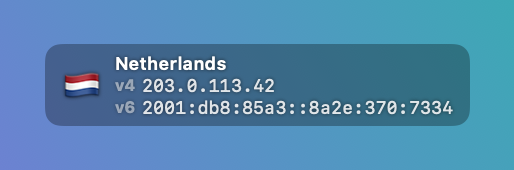
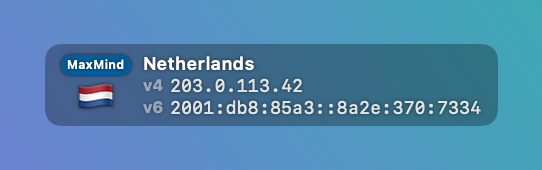
Show geo-source badge (MaxMind / CF) above the flag in the window
Hand-drawn capsule badge in SwiftUI (no third-party logos): blue
"MaxMind" in virtual mode, orange "CF" in physical mode. Screenshots
regenerated; both READMEs mention the badge.

Changed region(s): [[0.0623, 0.2647, 0.9339, 0.7353], [0.0934, 0.7059, 0.1245, 0.7353], [0.0934, 0.2647, 0.1245, 0.2941]]

diff --git a/Sources/IPMonit/ContentView.swift b/Sources/IPMonit/ContentView.swift
@@ -73,10 +73,29 @@ struct ContentView: View {
         }
     }
 
+    // Бейдж источника геоданных: рисуем сами, без сторонних логотипов.
+    private var sourceBadge: some View {
+        let physical = monitor.geoMode == .physicalLocation
+        return Text(physical ? "CF" : "MaxMind")
+            .font(.system(size: 6, weight: .bold))
+            .foregroundStyle(.white)
+            .padding(.horizontal, 3)
+            .padding(.vertical, 1)
+            .background(
+                physical
+                    ? Color(red: 0.96, green: 0.51, blue: 0.12)   // оранжевый Cloudflare
+                    : Color(red: 0.00, green: 0.37, blue: 0.64),  // синий MaxMind
+                in: Capsule()
+            )
+    }
+
     private func block(flag: String, country: String, lines: [(String, String)], tint: Color = .white) -> some View {
         HStack(spacing: 6) {
-            Text(flag)
-                .font(.system(size: 15))
+            VStack(spacing: 1) {
+                sourceBadge
+                Text(flag)
+                    .font(.system(size: 15))
+            }
             VStack(alignment: .leading, spacing: 0) {
                 Text(country)
                     .font(.system(size: 9, weight: .semibold))

diff --git a/README.md b/README.md
@@ -22,7 +22,7 @@ The semi-transparent floating window over a desktop; the same info lives in the 
 - **Optional floating window** — a small semi-transparent pill that stays on top of all windows, on every desktop, even over fullscreen apps. Drag it anywhere; the position is remembered.
 - **Near-realtime** — endpoints are polled every 3 seconds, and network changes (VPN on/off, Wi-Fi switch) trigger an immediate refresh via `NWPathMonitor`.
 - **IPv4 and IPv6 checked independently** — via Cloudflare (`1.1.1.1` and `2606:4700:4700::1111`), so you see exactly what dual-stack services see. A protocol that isn't available is simply hidden.
-- **Virtual vs physical country** — a menu option ("Shown country") switches between the country as registered in geo databases (MaxMind — what websites see) and the physical server location (Cloudflare's estimate). See [Virtual VPN locations](#virtual-vpn-locations-registered-vs-physical-country) below.
+- **Virtual vs physical country** — a menu option ("Shown country") switches between the country as registered in geo databases (MaxMind — what websites see) and the physical server location (Cloudflare's estimate). The active source is shown as a small badge (MaxMind / CF) above the flag in the floating window. See [Virtual VPN locations](#virtual-vpn-locations-registered-vs-physical-country) below.
 - **VPN leak hint** — if the IPv4 and IPv6 countries don't match (a classic sign of one protocol leaking outside your VPN tunnel), the IPv6 block is shown separately with its own flag, highlighted orange, and the menu bar flag gets a ⚠️.
 - **Offline indicator** — when the internet is unreachable, the app says so instead of showing stale data.
 - **Launch at login** — toggle in the menu (uses the system `SMAppService`).

diff --git a/README.ru.md b/README.ru.md
@@ -22,7 +22,7 @@
 - **Опциональное плавающее окошко** — маленькая полупрозрачная плашка поверх всех окон, на всех рабочих столах, даже над полноэкранными приложениями. Перетаскивается куда угодно; позиция запоминается.
 - **Почти в реальном времени** — опрос каждые 3 секунды, а смена сети (VPN вкл/выкл, переключение Wi-Fi) вызывает немедленное обновление через `NWPathMonitor`.
 - **IPv4 и IPv6 проверяются независимо** — через Cloudflare (`1.1.1.1` и `2606:4700:4700::1111`), так что вы видите ровно то, что видят dual-stack сервисы. Недоступный протокол просто скрывается.
-- **Виртуальная и физическая страна** — опция меню («Отображаемая страна») переключает между страной, зарегистрированной в геобазах (MaxMind — то, что видят сайты), и физическим расположением сервера (оценка Cloudflare). См. раздел [Виртуальные локации VPN](#виртуальные-локации-vpn-зарегистрированная-и-физическая-страна) ниже.
+- **Виртуальная и физическая страна** — опция меню («Отображаемая страна») переключает между страной, зарегистрированной в геобазах (MaxMind — то, что видят сайты), и физическим расположением сервера (оценка Cloudflare). Активный источник показан маленьким бейджем (MaxMind / CF) над флагом в окошке. См. раздел [Виртуальные локации VPN](#виртуальные-локации-vpn-зарегистрированная-и-физическая-страна) ниже.
 - **Подсказка об утечке VPN** — если страны IPv4 и IPv6 не совпадают (классический признак утечки одного из протоколов мимо VPN-туннеля), блок IPv6 показывается отдельно со своим флагом, подсвечивается оранжевым, а к флагу в меню-баре добавляется ⚠️.
 - **Индикатор офлайна** — когда интернет недоступен, приложение говорит об этом, а не показывает устаревшие данные.
 - **Автозапуск при входе** — переключатель в меню (используется системный `SMAppService`).